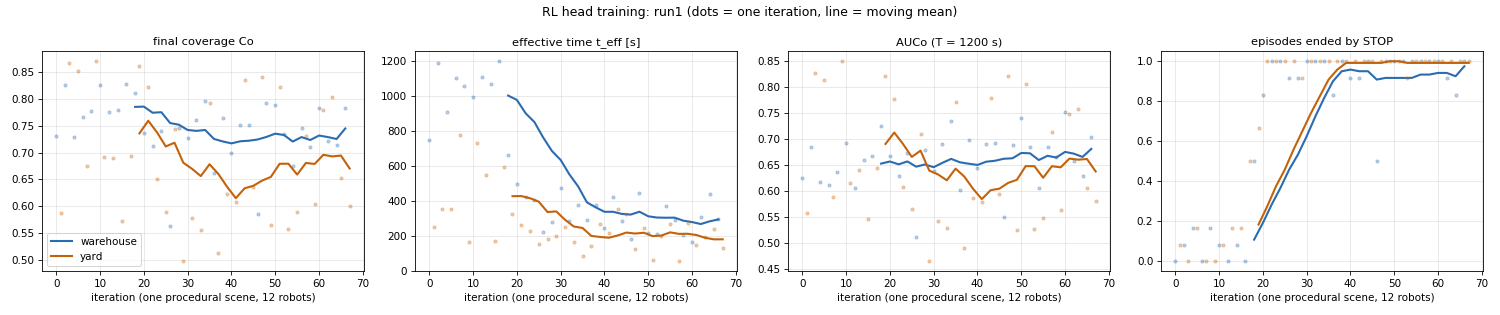
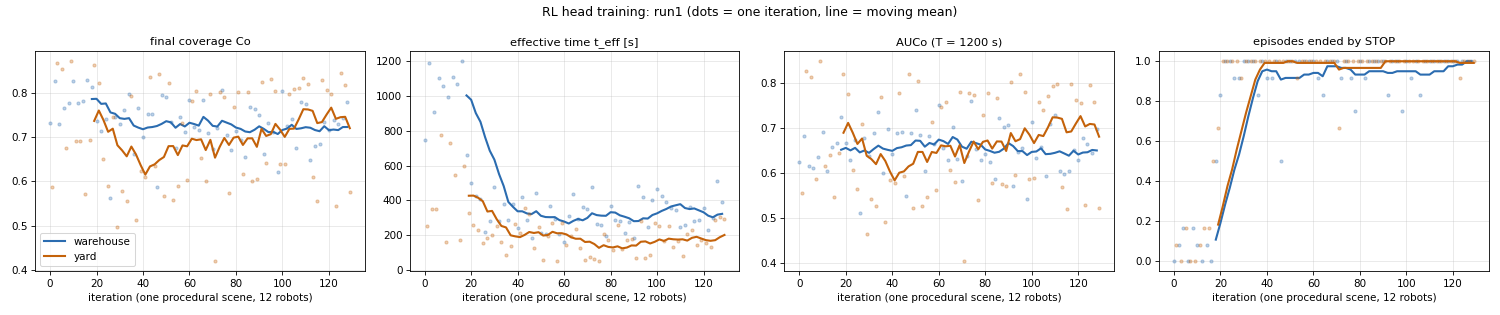
Stage 7: run1 it 120 evaluation (AUCo 10/10 over POSE, same coverage 18-23 % sooner, final Co 0.77-0.79)

diff --git a/results/pose_inspection/rl/run1/eval_ckpt0120.md b/results/pose_inspection/rl/run1/eval_ckpt0120.md
@@ -1,0 +1,14 @@
+| scene | kind | POSE AUCo | RL AUCo | POSE Co | RL Co | POSE t_eff | RL t_eff | POSE Co at RL stop | POSE time to RL Co |
+|---|---|---|---|---|---|---|---|---|---|
+| val_0000 | warehouse | 0.605 | 0.633 | 0.842 | 0.781 | 491 | 285 | 0.722 | 329 |
+| val_0001 | yard | 0.489 | 0.581 | 0.858 | 0.826 | 261 | 184 | 0.625 | 228 |
+| val_0002 | warehouse | 0.569 | 0.655 | 0.839 | 0.846 | 483 | 337 | 0.739 | 468 |
+| val_0003 | yard | 0.462 | 0.545 | 0.850 | 0.789 | 220 | 145 | 0.561 | 179 |
+| val_0004 | warehouse | 0.474 | 0.537 | 0.801 | 0.677 | 514 | 306 | 0.540 | 380 |
+| val_0005 | yard | 0.555 | 0.588 | 0.849 | 0.826 | 189 | 129 | 0.760 | 150 |
+| val_0006 | warehouse | 0.491 | 0.549 | 0.814 | 0.744 | 672 | 392 | 0.552 | 594 |
+| val_0007 | yard | 0.696 | 0.700 | 0.858 | 0.848 | 99 | 100 | 0.857 | 74 |
+| val_0008 | warehouse | 0.537 | 0.592 | 0.838 | 0.803 | 498 | 317 | 0.707 | 355 |
+| val_0009 | yard | 0.452 | 0.512 | 0.700 | 0.641 | 327 | 179 | 0.511 | 264 |
+| **mean (warehouse, 5)** | | 0.535 | 0.593 | 0.827 | 0.770 | 532 | 327 | 0.652 | 425 |
+| **mean (yard, 5)** | | 0.531 | 0.585 | 0.823 | 0.786 | 219 | 147 | 0.663 | 179 |
